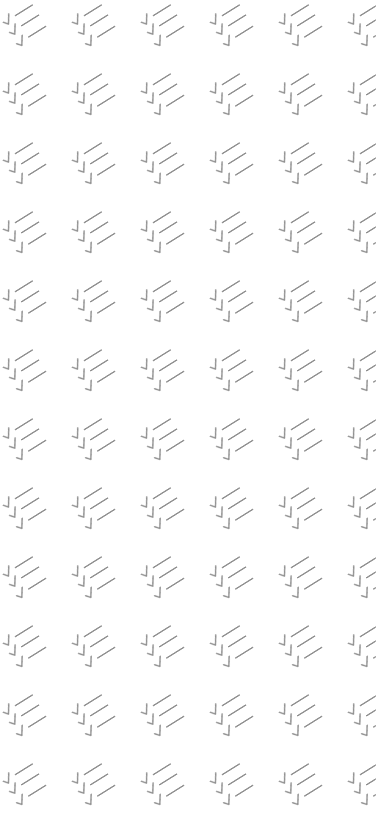
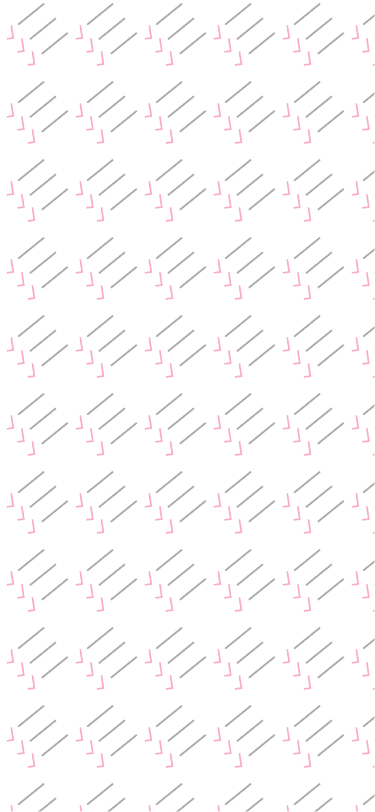
changed the background

diff --git a/components/TodoItems.js b/components/TodoItems.js
@@ -1,5 +1,5 @@
 import React, { Component } from 'react'
-import { View, Text, StyleSheet, ActivityIndicator, TouchableOpacity, FlatList, SafeAreaView, Animated } from 'react-native';
+import { View, Text, StyleSheet, ActivityIndicator, TouchableOpacity, FlatList, SafeAreaView } from 'react-native';
 import { AntDesign } from '@expo/vector-icons';
 import { MaterialCommunityIcons } from '@expo/vector-icons';
 import { Divider, CheckBox } from 'react-native-elements';
@@ -11,17 +11,9 @@ import { getTodoes, markCompleted, deleteTodo } from '../redux/actions/todoActio
 
 class TodoItems extends Component {
     state = {
-        isSelected: false,
-        deleteAnim: new Animated.Value(1),
-        darkMode: true
+        isSelected: false
     }
 
-    deleteFade = () => {
-        Animated.timing(this.state.deleteAnim, {
-            toValue: 0,
-            duration: 1000
-        }).start()
-    }
 
     setSelection = (id) => {
         this.props.markCompleted(id);
@@ -37,7 +29,7 @@ class TodoItems extends Component {
     renderItem = (todo) => {
         const { textColor, primaryColor } = this.props;
         return (
-            <Animated.View key={todo.id} style={{ opacity: this.state.fadeAnim }}>
+            <View key={todo.id}>
                 <View style={styles.todo}>
                     <View style={{ flexDirection: 'row', alignItems: 'center' }}>
                         <CheckBox
@@ -53,7 +45,7 @@ class TodoItems extends Component {
                     </TouchableOpacity>
                 </View>
                 <Divider style={{ backgroundColor: primaryColor }} />
-            </Animated.View>
+            </View>
         )
     }
 

diff --git a/App.js b/App.js
@@ -16,7 +16,7 @@ class App extends React.Component {
     const { height, width } = Dimensions.get('screen')
     return (
       <Provider store={store}>
-        <Image source={require('./assets/background.png')} style={styles.backgroundImage} />
+        <Image source={require('./assets/background.png')} style={{ ...styles.backgroundImage, width: '100%', height: '100%' }} />
         <TouchableWithoutFeedback style={{ width, height }} onPress={() => Keyboard.dismiss()} accessible={false}>
           <View style={styles.container}>
             <TodoInput />
@@ -39,9 +39,7 @@ const styles = StyleSheet.create({
     marginTop: StatusBar.currentHeight,
     position: 'absolute',
     top: 0,
-    left: 0,
-    bottom: 0,
-    right: 0
+    left: 0
   }
 })
 
